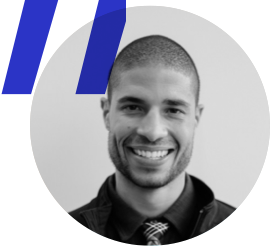
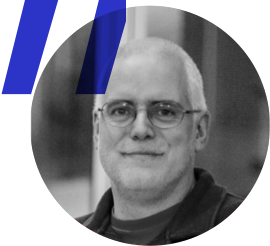
Last bits of content

diff --git a/index.html b/index.html
@@ -55,20 +55,64 @@
     <p><img src="assets/heads.png"></p>
     <h1>WHAT MAKES FIELD DAY<br>FELLOWSHIPS SO DIFFERENT?</h1>
   </div>
-  <h2>You've got superheroes on your team</h2>
-  <p class="what-makes-text">
-    But even superheroes need support.
-    Maybe you’re ready to bring some innovation to your schools.
-    Maybe it’s Personalized Learning,
-    or that awesome Makerspace you’ve been dreaming about.
-    But how can these programs make an impact
-    if teachers aren’t getting the support they need to grow?&hellip;
-  </p>
-  <p class="jumbotron-arrow-p">
-    <a href="#">
-      <img src="assets/arrow-down.png" alt="Read more">
-    </a>
-  </p>
+  <div class="what-makes-content-short">
+    <h2>You've got superheroes on your team</h2>
+    <p class="what-makes-text">
+      But even superheroes need support.
+      Maybe you’re ready to bring some innovation to your schools.
+      Maybe it’s Personalized Learning,
+      or that awesome Makerspace you’ve been dreaming about.
+      But how can these programs make an impact
+      if teachers aren’t getting the support they need to grow?&hellip;
+    </p>
+    <p class="jumbotron-arrow-p">
+      <a href="#" onclick="event.preventDefault(); document.body.classList.add('switch-full-content');">
+        Read more
+        <br>
+        <br>
+        <img src="assets/arrow-down.png" alt="Read more">
+      </a>
+    </p>
+  </div>
+  <div class="what-makes-content-long">
+    <h2>You've got superheroes on your team</h2>
+    <p class="what-makes-text">
+      But even superheroes need support.
+      Maybe you’re ready to bring some innovation to your schools.
+      Maybe it’s Personalized Learning,
+      or that awesome Makerspace you’ve been dreaming about.
+      But how can these programs make an impact
+      if teachers aren’t getting the support they need to grow?
+    </p>
+
+    <p class="what-makes-text">
+      Out with the old lecture and paper-writing methods, In with interactive media design! Your teachers play an important role in the shift from talking at kids to engaging with kids.
+    </p>
+
+    <p class="what-makes-text">
+      Most likely, “professional” and “development” aren’t your teachers’ favorite words. They probably spend those days lined up in chairs, listening to someone talk--or possibly catching up on sleep. Let’s face it, teachers don’t need more lectures. They need active, ongoing support, and the tools to experiment with new approaches in the classroom.
+    </p>
+
+    <p class="what-makes-text">
+      This fall, our fellows will design a final project that kids--and teachers!--can have fun with. Instead of writing a paper, students will create interactive games based on social sciences content. We’ll work directly with your teachers as they guide their students in developing designs, doing research, and making their own mobile games.
+    </p>
+
+    <p class="what-makes-text">
+      Nowadays, teachers are really feeling the heat. They face constant pressure to support students in not only the academic content, but digital media, coding and design. This requires more expertise than ever before. Project-based professional development is the sigh of relief that teachers need. It all happens in the classroom, which means teachers are getting the practical support they need, and students are getting a richer, more innovative experience.
+    </p>
+
+    <p class="what-makes-text">
+      The Field Day fellowship is PD that builds connections with the community - kids will be sharing their projects with their friends and families and maybe even making games about their neighborhoods!
+    </p>
+
+    <p class="what-makes-quote">
+      “These kids are the future. We want them to be creative, to problem solve, to work together. It’s not always easy to teach creativity, but it’s important because it leads to higher levels of thinking and processing, learning through trial and error, learning how to fix problems. Today’s project opened up the students to do this. I saw their self-esteem increase when they did something difficult.”
+    </p>
+
+    <p class="what-makes-quote">
+      Julie Breunig, Gifted &amp; Talented Specialist at Sauk Prairie Middle School
+    </p>
+  </div>
 </div>
 
 <div class="teachers-words">
@@ -85,21 +129,21 @@
       </p>
     </div>
     <div class="teacher">
-      <p class="teacher-photo"><img src="assets/teacher-larry.png"></p>
-      <p class="teacher-name">LARRY MOBERLY</p>
-      <p class="teacher-job">Super hero dreamer<br>Deforest Middle School</p>
+      <p class="teacher-photo"><img src="assets/teacher-julie.png"></p>
+      <p class="teacher-name">JULIE BREUNIG</p>
+      <p class="teacher-job">Keeper of creativity<br>Sauk Prairie Middle School</p>
       <p><span class="teacher-sep"></span></p>
       <p class="teacher-text">
-         “They stopped asking me, ‘Is this good? Is this what you want?’ Instead, they showed me what they had finished, they were discussing things together, troubleshooting together. I just sat back and reminded them of due dates. They didn’t even need me!”
+        “It’s not always easy to teach creativity, but it’s important because it leads to higher levels of thinking and processing, learning through trial and error, learning how to fix problems. Today’s project opened up the students to do this. I saw their self-esteem increase when they did something difficult.”
       </p>
     </div>
     <div class="teacher">
-      <p class="teacher-photo"><img src="assets/teacher-larry.png"></p>
-      <p class="teacher-name">LARRY MOBERLY</p>
-      <p class="teacher-job">Super hero dreamer<br>Deforest Middle School</p>
+      <p class="teacher-photo"><img src="assets/teacher-beth.png"></p>
+      <p class="teacher-name">BETH STOFFLET</p>
+      <p class="teacher-job">Educational Mastermind<br>Deforest Middle School</p>
       <p><span class="teacher-sep"></span></p>
       <p class="teacher-text">
-         “They stopped asking me, ‘Is this good? Is this what you want?’ Instead, they showed me what they had finished, they were discussing things together, troubleshooting together. I just sat back and reminded them of due dates. They didn’t even need me!”
+        “It’s important to strike the right balance of help and reassurance, while encouraging students to figure it out on their own. Be prepared for some messy, chaotic, but genuine learning.”
       </p>
     </div>
   </div>

diff --git a/style.css b/style.css
@@ -42,6 +42,11 @@ body {
   margin: 40px;
 }
 
+.jumbotron-arrow-p a {
+  text-decoration: none;
+  color: rgb(46,49,224);
+}
+
 .jumbotron-arrow-p img {
   width: 45px;
 }
@@ -107,10 +112,26 @@ body {
   margin: 50px;
 }
 
-.what-makes-text {
+.what-makes-content-short, .what-makes-content-long {
   max-width: 600px;
-  text-align: left;
   margin: 0 10px;
+}
+
+.what-makes-text {
+  text-align: left;
+}
+
+.what-makes-quote {
+  font-size: 18px;
+  margin: 30px 0;
+}
+
+body.switch-full-content .what-makes-content-short {
+  display: none;
+}
+
+body:not(.switch-full-content) .what-makes-content-long {
+  display: none;
 }
 
 .teachers-words {
